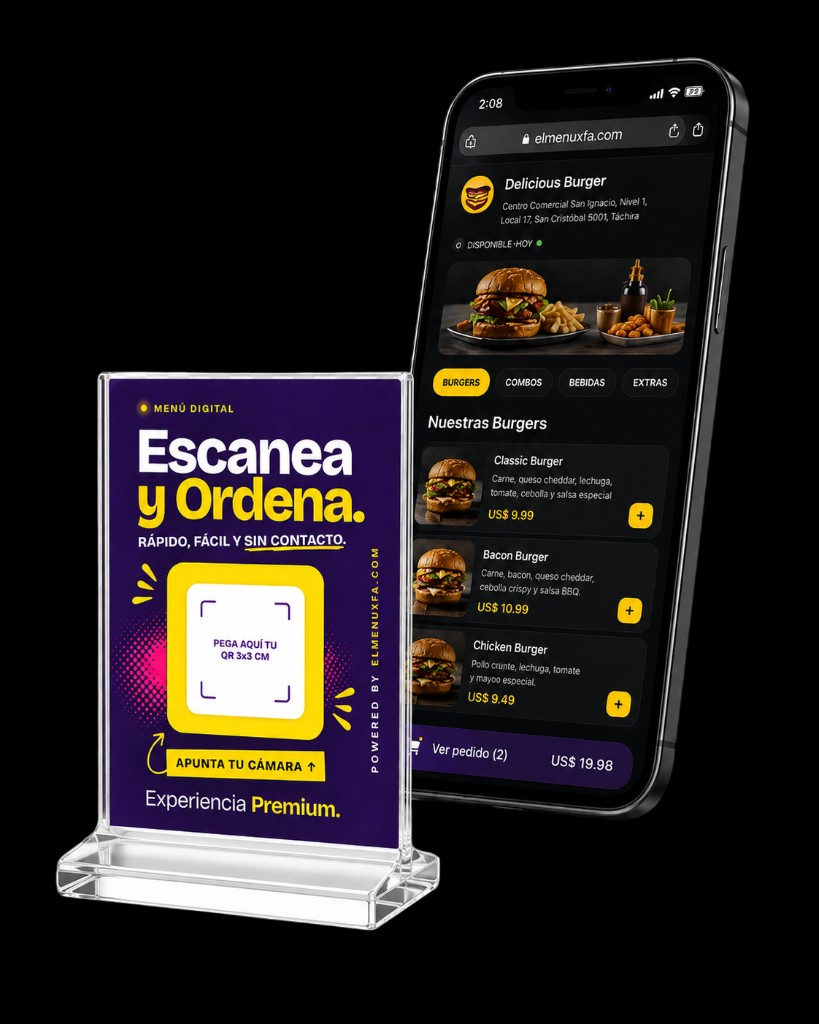
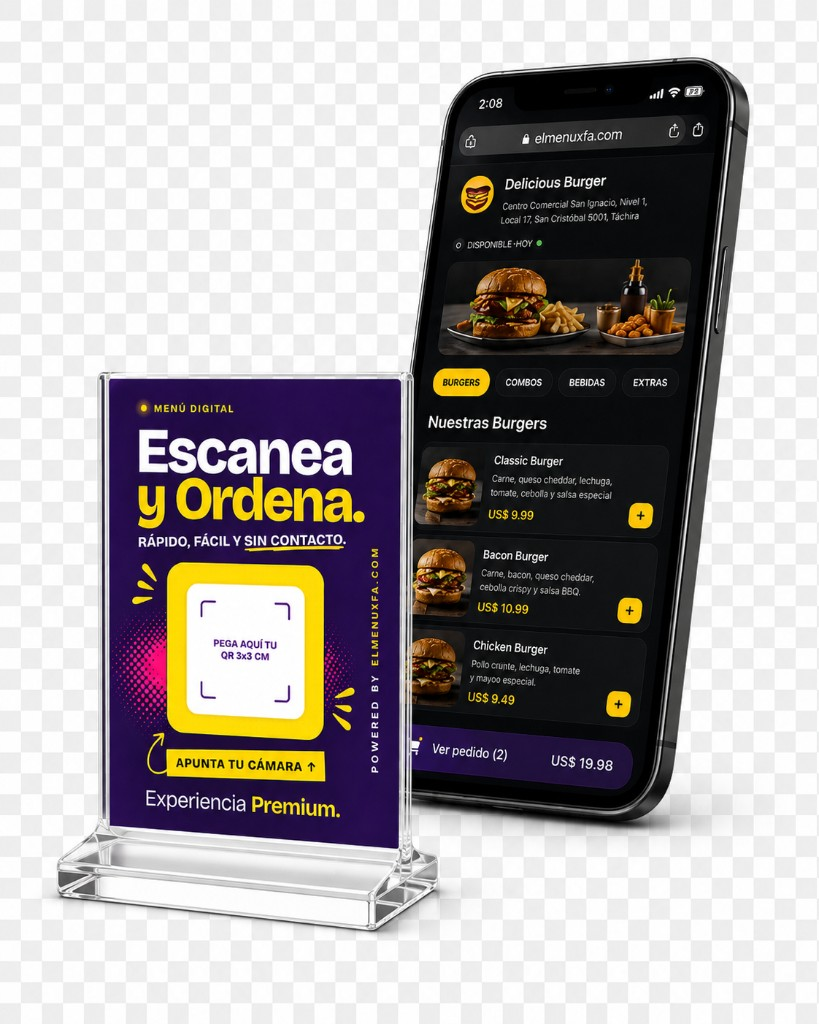
Hero pixel-perfect: visual recortado del mockup de diseno.
Usa el asset oficial del mockup para Table Tent + telefono + callout, elimina orbitas que distorsionaban el layout y alinea contenedor con navbar.

diff --git a/site/components/Hero.tsx b/site/components/Hero.tsx
@@ -23,49 +23,30 @@ const heroHighlights = [
 
 const avatarTokens = ['A', 'L', 'M', 'R', 'S'] as const;
 
-const orbitNodes = [
-  'left-[10%] top-[36%] h-2.5 w-2.5',
-  'left-[24%] top-[14%] h-2 w-2',
-  'left-[60%] top-[10%] h-2.5 w-2.5',
-  'right-[7%] top-[28%] h-3 w-3',
-  'right-[12%] bottom-[19%] h-2.5 w-2.5',
-  'left-[54%] bottom-[11%] h-2 w-2',
-] as const;
-
-const orbitParticles = [
-  'left-[17%] top-[24%] h-1 w-1 opacity-75',
-  'left-[30%] top-[58%] h-1.5 w-1.5 opacity-60',
-  'left-[72%] top-[22%] h-1 w-1 opacity-65',
-  'right-[16%] top-[16%] h-1 w-1 opacity-55',
-  'right-[22%] bottom-[30%] h-1.5 w-1.5 opacity-70',
-  'left-[44%] bottom-[18%] h-1 w-1 opacity-50',
-] as const;
-
 export function Hero({ whatsappHref }: HeroProps) {
   return (
     <section id="inicio" className="hero-shell relative isolate overflow-hidden px-0">
       <div aria-hidden="true" className="pointer-events-none absolute inset-0 -z-10">
         <div className="hero-grid absolute inset-0 opacity-80" />
-        <div className="hero-glow-violet absolute left-[34%] top-[8%] h-[19rem] w-[19rem] -translate-x-1/2 opacity-65 sm:h-[24rem] sm:w-[24rem] lg:left-[58%] lg:top-[12%] lg:h-[38rem] lg:w-[38rem] lg:opacity-100" />
-        <div className="hero-glow-violet hero-glow-secondary absolute left-[68%] top-[18%] hidden h-[33rem] w-[33rem] -translate-x-1/2 lg:block" />
-        <div className="hero-glow-cyan absolute bottom-[-10%] right-[-24%] h-[18rem] w-[18rem] opacity-55 sm:right-[-14%] sm:h-[22rem] sm:w-[22rem] lg:bottom-[-14%] lg:right-[-10%] lg:h-[34rem] lg:w-[34rem] lg:opacity-100" />
+        <div className="hero-glow-violet absolute left-[58%] top-[10%] hidden h-[34rem] w-[34rem] -translate-x-1/2 opacity-90 lg:block xl:h-[40rem] xl:w-[40rem]" />
+        <div className="hero-glow-violet hero-glow-secondary absolute left-[72%] top-[22%] hidden h-[28rem] w-[28rem] -translate-x-1/2 opacity-70 lg:block" />
+        <div className="hero-glow-cyan absolute bottom-[-8%] right-[-8%] hidden h-[26rem] w-[26rem] opacity-60 lg:block" />
       </div>
 
-      <div className="relative z-10 mx-auto max-w-7xl px-4 pb-10 pt-6 sm:px-6 sm:pb-12 sm:pt-8 lg:pb-16 lg:pt-14">
-        <div className="grid items-center gap-10 lg:grid-cols-[minmax(0,0.94fr)_minmax(0,1.06fr)] lg:gap-8 xl:gap-10">
-          <div className="mx-auto min-w-0 max-w-[36rem] text-center lg:mx-0 lg:max-w-[34rem] lg:text-left xl:max-w-[36rem]">
-            <div className="animate-fade-up inline-flex items-center gap-2 rounded-full border border-violet-400/20 bg-[#221743]/45 px-3 py-1.5 text-[11px] font-semibold text-white shadow-[0_16px_34px_-24px_rgba(124,58,237,0.95)] backdrop-blur-xl will-change-transform will-change-opacity sm:px-4 sm:py-2 sm:text-[13px]">
+      <div className="relative z-10 mx-auto max-w-[1240px] px-4 pb-10 pt-6 sm:px-6 sm:pb-12 sm:pt-8 lg:pb-14 lg:pt-10">
+        <div className="grid items-center gap-10 lg:grid-cols-[minmax(0,0.98fr)_minmax(0,1.02fr)] lg:gap-6 xl:gap-8">
+          <div className="mx-auto min-w-0 max-w-[36rem] text-center lg:mx-0 lg:max-w-[36.5rem] lg:text-left xl:max-w-[38rem]">
+            <div className="animate-fade-up inline-flex items-center gap-2 rounded-full border border-violet-400/20 bg-[#221743]/45 px-3 py-1.5 text-[11px] font-semibold text-white shadow-[0_16px_34px_-24px_rgba(124,58,237,0.95)] backdrop-blur-xl sm:px-4 sm:py-2 sm:text-[13px]">
               <QrCode className="h-3.5 w-3.5 text-violet-200 sm:h-4 sm:w-4" />
               Menú digital + QR + Table Tent <span className="text-[#FACC15]">incluido</span>
             </div>
 
-            <h1 className="mx-auto mt-4 max-w-[18rem] font-[var(--font-display)] text-[1.9rem] font-black leading-[1.04] tracking-[-0.04em] text-white sm:max-w-[30rem] sm:text-[2.55rem] lg:mx-0 lg:max-w-[32rem] lg:text-[3rem] xl:text-[3.25rem]">
-              <span className="block">Tu menú digital</span>
-              <span className="block">listo para que tus clientes</span>
+            <h1 className="mx-auto mt-4 max-w-[19rem] font-[var(--font-display)] text-[1.95rem] font-black leading-[1.03] tracking-[-0.04em] text-white sm:max-w-[30rem] sm:text-[2.6rem] lg:mx-0 lg:max-w-none lg:text-[3.05rem] xl:text-[3.35rem]">
+              <span className="block">Tu menú digital listo para que tus clientes</span>
               <span className="block text-[#FACC15]">escaneen, elijan y ordenen.</span>
             </h1>
 
-            <p className="animate-fade-up animation-delay-300 mx-auto mt-5 max-w-[31rem] text-[0.95rem] leading-6 text-slate-300/88 will-change-transform will-change-opacity sm:text-base sm:leading-7 lg:mx-0 lg:max-w-[33rem] lg:text-[0.98rem] lg:leading-7">
+            <p className="animate-fade-up animation-delay-300 mx-auto mt-5 max-w-[31rem] text-[0.95rem] leading-6 text-slate-300/88 sm:text-base sm:leading-7 lg:mx-0 lg:max-w-[33rem] lg:text-[0.98rem] lg:leading-7">
               Incluye menú online, QR personalizado y Table Tent físico para colocar en tus mesas. Sin apps, sin complicaciones y listo para usar.
             </p>
 
@@ -76,7 +57,7 @@ export function Hero({ whatsappHref }: HeroProps) {
                 return (
                   <div
                     key={item.label}
-                    className={`animate-fade-up flex min-h-[6.5rem] min-w-0 items-start gap-3 rounded-[1.2rem] border border-white/8 bg-[#0d1323]/72 px-3.5 py-3.5 text-left text-[0.88rem] font-medium text-slate-100 will-change-transform will-change-opacity sm:min-h-[7rem] sm:px-4 sm:py-4 sm:text-[0.95rem] ${
+                    className={`animate-fade-up flex min-h-[6.5rem] min-w-0 items-start gap-3 rounded-[1.2rem] border border-white/8 bg-[#0d1323]/72 px-3.5 py-3.5 text-left text-[0.88rem] font-medium text-slate-100 sm:min-h-[7rem] sm:px-4 sm:py-4 sm:text-[0.95rem] ${
                       index === 0 ? 'animation-delay-300' : index < 3 ? 'animation-delay-500' : 'animation-delay-700'
                     }`}
                   >
@@ -97,7 +78,7 @@ export function Hero({ whatsappHref }: HeroProps) {
                 href={whatsappHref}
                 target="_blank"
                 rel="noopener noreferrer"
-                className="group animate-fade-up animation-delay-500 relative inline-flex w-full items-center justify-center gap-2 overflow-hidden rounded-full bg-[#FACC15] px-6 py-4 text-base font-bold text-[#0B0F1A] shadow-[0_34px_90px_-18px_rgba(250,204,21,1)] transition-all duration-300 hover:scale-[1.04] hover:bg-[#fde047] hover:shadow-[0_40px_100px_-16px_rgba(250,204,21,1)] active:scale-95 sm:min-w-[18rem] sm:w-auto sm:px-9"
+                className="group animate-fade-up animation-delay-500 relative inline-flex w-full items-center justify-center gap-2 overflow-hidden rounded-full bg-[#FACC15] px-6 py-4 text-base font-bold text-[#0B0F1A] shadow-[0_34px_90px_-18px_rgba(250,204,21,1)] transition-all duration-300 hover:scale-[1.04] hover:bg-[#fde047] sm:min-w-[18.5rem] sm:w-auto sm:px-9"
               >
                 <span className="animate-shine absolute inset-y-0 -left-1/3 w-1/3 -skew-x-12 bg-white/30 blur-md" />
                 Solicitar activación ahora
@@ -105,7 +86,7 @@ export function Hero({ whatsappHref }: HeroProps) {
               </Link>
               <Link
                 href="#demo"
-                className="animate-fade-up animation-delay-500 inline-flex w-full items-center justify-center gap-2 rounded-full border border-white/14 bg-transparent px-8 py-4 text-base font-medium text-white/90 transition-all duration-300 hover:-translate-y-0.5 hover:border-white/24 hover:bg-white/5 hover:text-white will-change-transform will-change-opacity sm:w-auto"
+                className="animate-fade-up animation-delay-500 inline-flex w-full items-center justify-center gap-2 rounded-full border border-white/14 bg-[#11182a]/55 px-8 py-4 text-base font-medium text-white/90 transition-all duration-300 hover:-translate-y-0.5 hover:border-white/24 hover:bg-white/6 sm:w-auto"
               >
                 Ver demo del menú
                 <ChevronRight className="h-4 w-4" />
@@ -116,97 +97,45 @@ export function Hero({ whatsappHref }: HeroProps) {
               Desde <span className="text-[#FACC15]">$10/mes</span> · Activación rápida · Ideal para restaurantes, cafés y food trucks
             </p>
 
-            <div className="animate-fade-up animation-delay-500 mt-7 flex flex-col items-center gap-4 sm:flex-row sm:items-center lg:items-start">
-              <div className="flex -space-x-2.5 sm:-space-x-3">
-                {avatarTokens.map((item, index) => (
-                  <span
-                    key={item}
-                    className="inline-flex h-8 w-8 items-center justify-center rounded-full border-2 border-[#0d1323] bg-[linear-gradient(135deg,#f3d062,#7C3AED)] text-[11px] font-bold text-white sm:h-11 sm:w-11 sm:text-sm"
-                    style={{ zIndex: 10 - index }}
-                  >
-                    {item}
+            <div className="animate-fade-up animation-delay-500 mt-7 rounded-[1.45rem] border border-white/8 bg-[#0d1323]/74 px-4 py-4 backdrop-blur-xl sm:px-6">
+              <div className="flex flex-col items-center gap-4 sm:flex-row sm:items-center">
+                <div className="flex -space-x-2.5 sm:-space-x-3">
+                  {avatarTokens.map((item, index) => (
+                    <span
+                      key={item}
+                      className="inline-flex h-8 w-8 items-center justify-center rounded-full border-2 border-[#0d1323] bg-[linear-gradient(135deg,#f3d062,#7C3AED)] text-[11px] font-bold text-white sm:h-11 sm:w-11 sm:text-sm"
+                      style={{ zIndex: 10 - index }}
+                    >
+                      {item}
+                    </span>
+                  ))}
+                  <span className="inline-flex h-8 w-8 items-center justify-center rounded-full border-2 border-[#0d1323] bg-[#40307a] text-[11px] font-bold text-white sm:h-11 sm:w-11 sm:text-sm">
+                    +100
                   </span>
-                ))}
-                <span className="inline-flex h-8 w-8 items-center justify-center rounded-full border-2 border-[#0d1323] bg-[#40307a] text-[11px] font-bold text-white sm:h-11 sm:w-11 sm:text-sm">
-                  +100
-                </span>
-              </div>
-
-              <div className="text-center sm:text-left">
-                <div className="flex items-center justify-center gap-2 sm:justify-start sm:gap-3">
-                  <span className="text-[1.05rem] leading-none text-[#FACC15] sm:text-[1.5rem]">★★★★★</span>
-                  <span className="text-[1.35rem] font-black tracking-[-0.04em] text-white sm:text-[2rem]">4.9/5</span>
                 </div>
-                <p className="mt-1 text-xs text-slate-300 sm:text-sm">
-                  Restaurantes y cafés ya venden mejor con su menú digital
-                </p>
+
+                <div className="text-center sm:text-left">
+                  <div className="flex items-center justify-center gap-2 sm:justify-start sm:gap-3">
+                    <span className="text-[1.05rem] leading-none text-[#FACC15] sm:text-[1.5rem]">★★★★★</span>
+                    <span className="text-[1.35rem] font-black tracking-[-0.04em] text-white sm:text-[2rem]">4.9/5</span>
+                  </div>
+                  <p className="mt-1 text-xs text-slate-300 sm:text-sm">
+                    Restaurantes y cafés ya venden mejor con su menú digital
+                  </p>
+                </div>
               </div>
             </div>
           </div>
 
-          <div className="animate-fade-up animation-delay-300 relative mx-auto flex w-full min-w-0 max-w-[22rem] justify-center sm:max-w-[28rem] lg:max-w-none lg:justify-end">
-            <div
-              aria-hidden="true"
-              className="hero-orbit-system absolute left-1/2 top-1/2 h-[20rem] w-[20rem] -translate-x-1/2 -translate-y-1/2 opacity-55 sm:h-[26rem] sm:w-[26rem] sm:opacity-70 lg:left-[56%] lg:h-[42rem] lg:w-[42rem] lg:opacity-100"
-            >
-              <div className="hero-glow-violet animate-glow-pulse absolute left-1/2 top-1/2 h-[11rem] w-[11rem] -translate-x-1/2 -translate-y-1/2 lg:h-[20rem] lg:w-[20rem]" />
-              <div className="hero-glow-violet hero-glow-secondary animate-glow-pulse animation-delay-200 absolute left-1/2 top-1/2 hidden h-[23rem] w-[23rem] -translate-x-1/2 -translate-y-1/2 sm:block lg:h-[27rem] lg:w-[27rem]" />
-              <div className="hero-glow-cyan animate-glow-pulse animation-delay-300 absolute left-[70%] top-[66%] h-[10rem] w-[10rem] -translate-x-1/2 -translate-y-1/2 sm:h-[13rem] sm:w-[13rem] lg:h-[19rem] lg:w-[19rem]" />
-
-              <div className="hero-orbit hero-orbit-1 absolute left-1/2 top-1/2 h-[14rem] w-[14rem] -translate-x-1/2 -translate-y-1/2 sm:h-[18rem] sm:w-[18rem] lg:h-[20rem] lg:w-[20rem]" />
-              <div className="hero-orbit hero-orbit-2 absolute left-1/2 top-1/2 h-[19rem] w-[19rem] -translate-x-1/2 -translate-y-1/2 sm:h-[24rem] sm:w-[24rem] lg:h-[28rem] lg:w-[28rem]" />
-              <div className="hero-orbit hero-orbit-3 absolute left-1/2 top-1/2 hidden h-[36rem] w-[36rem] -translate-x-1/2 -translate-y-1/2 lg:block" />
-              <div className="hero-orbit hero-orbit-4 absolute left-1/2 top-1/2 hidden h-[44rem] w-[44rem] -translate-x-1/2 -translate-y-1/2 lg:block" />
-
-              {orbitNodes.map((className) => (
-                <span key={className} className={`hero-node absolute hidden sm:block ${className}`} />
-              ))}
-
-              {orbitParticles.map((className) => (
-                <span key={className} className={`hero-particle absolute hidden sm:block ${className}`} />
-              ))}
-            </div>
-
-            <div className="relative z-20 w-full max-w-[19rem] sm:max-w-[24rem] lg:max-w-[34rem] xl:max-w-[36rem]">
-              <div className="animate-fade-up animation-delay-500 absolute left-[4%] top-[0%] z-30 w-[10.5rem] rounded-[1.35rem] border border-white/10 bg-[linear-gradient(180deg,rgba(34,39,78,0.92),rgba(20,25,49,0.88))] px-3.5 py-3 text-white shadow-[0_24px_64px_-28px_rgba(124,58,237,0.72)] backdrop-blur-2xl sm:left-[6%] sm:top-[1%] sm:w-[11.75rem] sm:px-4 sm:py-3.5 lg:left-[8%] lg:top-[2%] lg:w-[13rem] lg:px-4 lg:py-4">
-                <div className="flex items-start justify-between gap-2">
-                  <p className="text-[0.82rem] font-medium text-slate-100 sm:text-[0.95rem]">Incluye</p>
-                  <Layers className="h-4 w-4 text-[#FACC15]" />
-                </div>
-                <p className="mt-2 text-[1.02rem] font-black leading-tight tracking-[-0.04em] text-white sm:text-[1.2rem] lg:text-[1.35rem]">
-                  Table Tent
-                  <br />
-                  físico
-                </p>
-                <p className="mt-1.5 text-[0.76rem] leading-5 text-slate-200/92 sm:text-[0.88rem] sm:leading-6 lg:text-[0.92rem]">
-                  QR listo para
-                  <br />
-                  colocar en tu mesa
-                </p>
-              </div>
-
-              <svg
-                aria-hidden="true"
-                viewBox="0 0 120 88"
-                className="pointer-events-none absolute left-[12%] top-[17%] z-20 hidden h-[5.5rem] w-[7.5rem] text-white/35 sm:block lg:left-[14%] lg:top-[18%] lg:h-[6.25rem] lg:w-[8.5rem]"
-              >
-                <path
-                  d="M18 8 C42 18, 58 42, 92 78"
-                  fill="none"
-                  stroke="currentColor"
-                  strokeWidth="1.5"
-                  strokeLinecap="round"
-                />
-                <circle cx="92" cy="78" r="3" fill="currentColor" fillOpacity="0.55" />
-              </svg>
-
+          <div className="animate-fade-up animation-delay-300 relative mx-auto flex w-full min-w-0 justify-center lg:mx-0 lg:justify-end lg:pr-0">
+            <div className="relative w-full max-w-[20rem] sm:max-w-[24rem] lg:max-w-[32rem] xl:max-w-[36rem]">
               <Image
-                src="/branding/hero-product-visual.png"
+                src="/branding/hero-visual-mock.png"
                 alt="Table Tent físico y menú digital de elmenuxfa en un smartphone"
-                width={819}
-                height={1024}
+                width={544}
+                height={612}
                 priority
-                className="relative z-10 h-auto w-full select-none drop-shadow-[0_40px_100px_rgba(0,0,0,0.72)]"
+                className="h-auto w-full select-none"
               />
             </div>
           </div>

diff --git a/site/components/Navbar.tsx b/site/components/Navbar.tsx
@@ -18,7 +18,7 @@ const navLinks = [
 export function Navbar({ whatsappHref, appHref }: NavbarProps) {
   return (
     <header className="sticky top-0 z-50 border-b border-white/8 bg-[#090D16]/88 backdrop-blur-xl">
-      <div className="mx-auto max-w-7xl px-4 py-3 sm:px-6 sm:py-4">
+      <div className="mx-auto max-w-[1240px] px-4 py-3 sm:px-6 sm:py-4">
         <div className="flex items-center justify-between gap-2.5 sm:gap-4">
           <Link
             href="#inicio"
